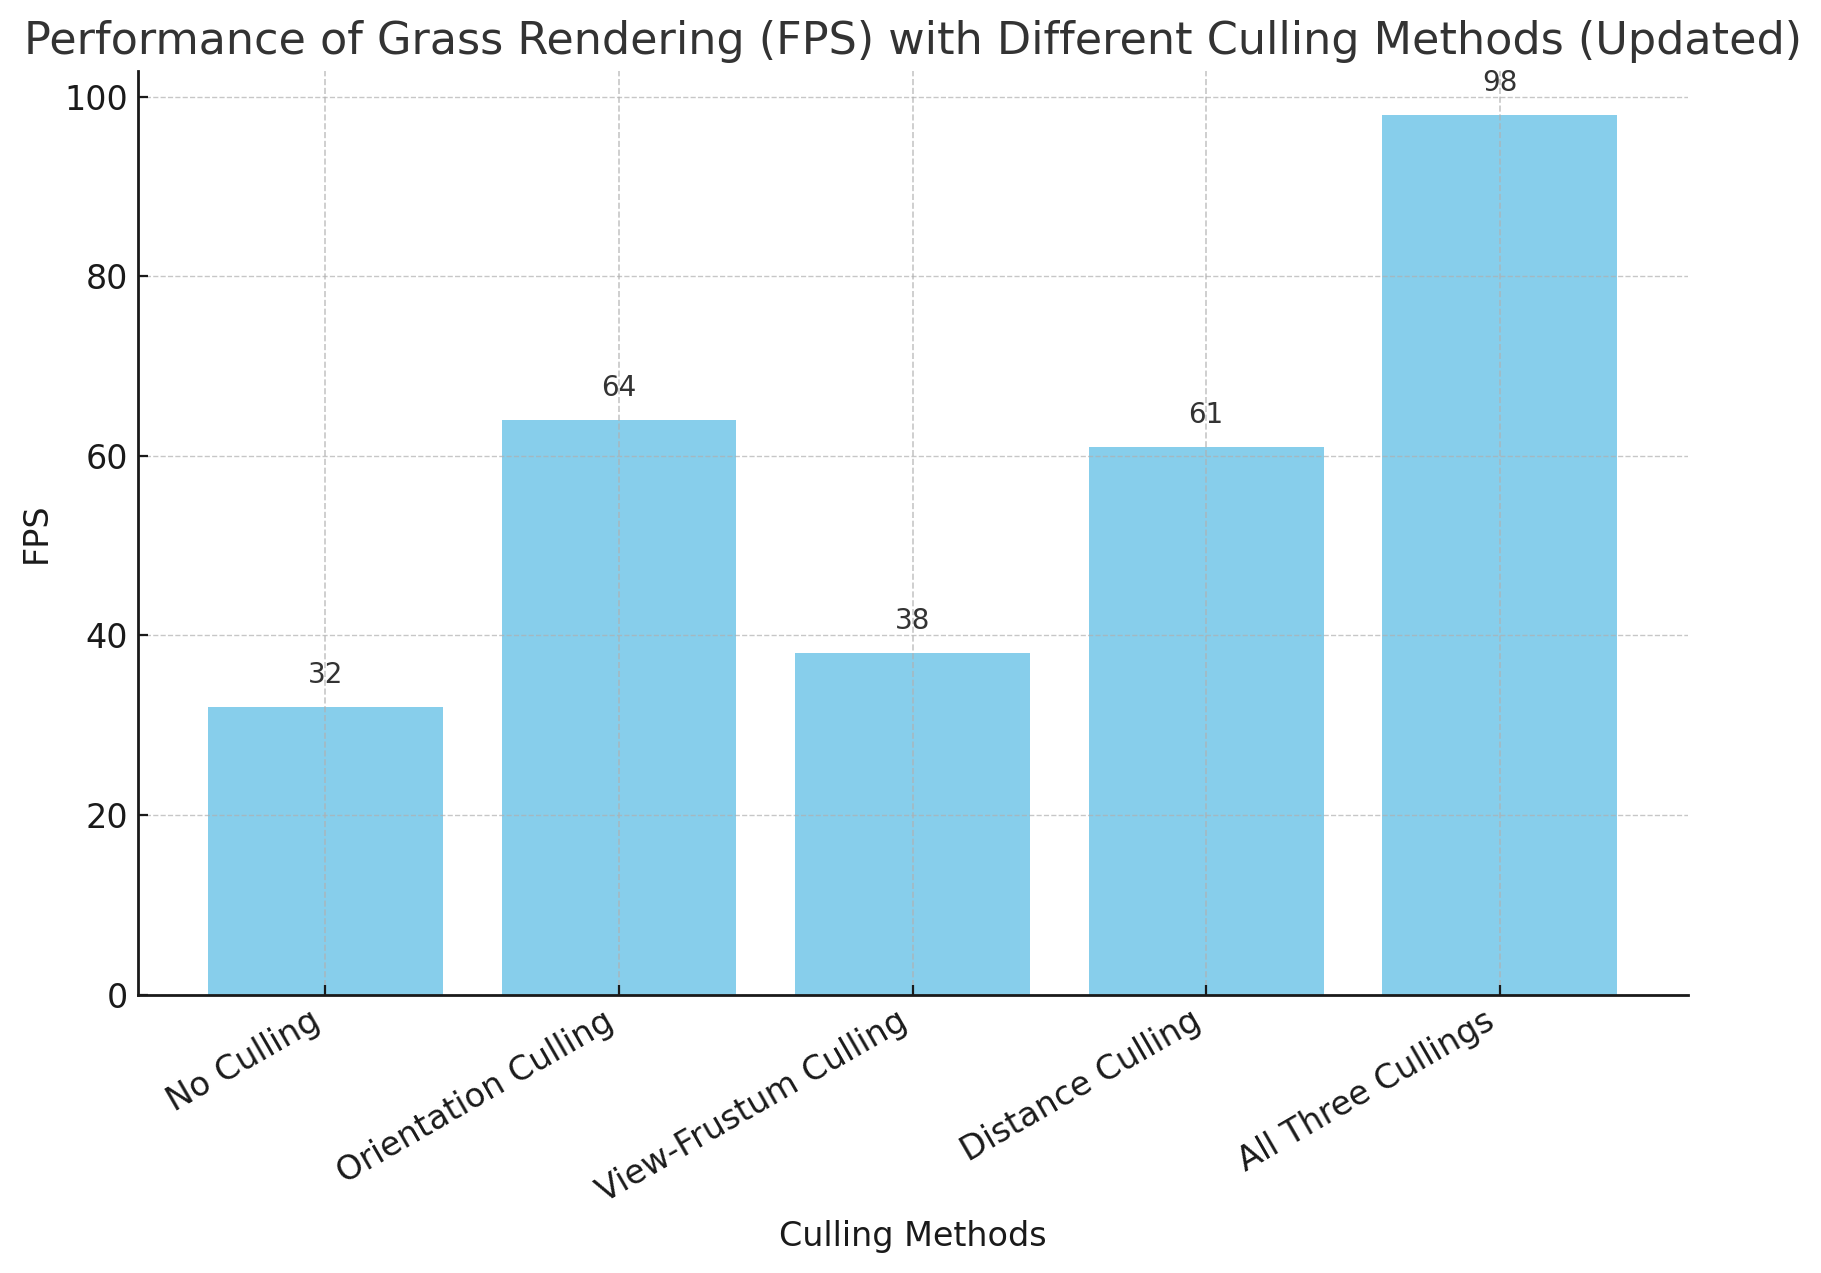
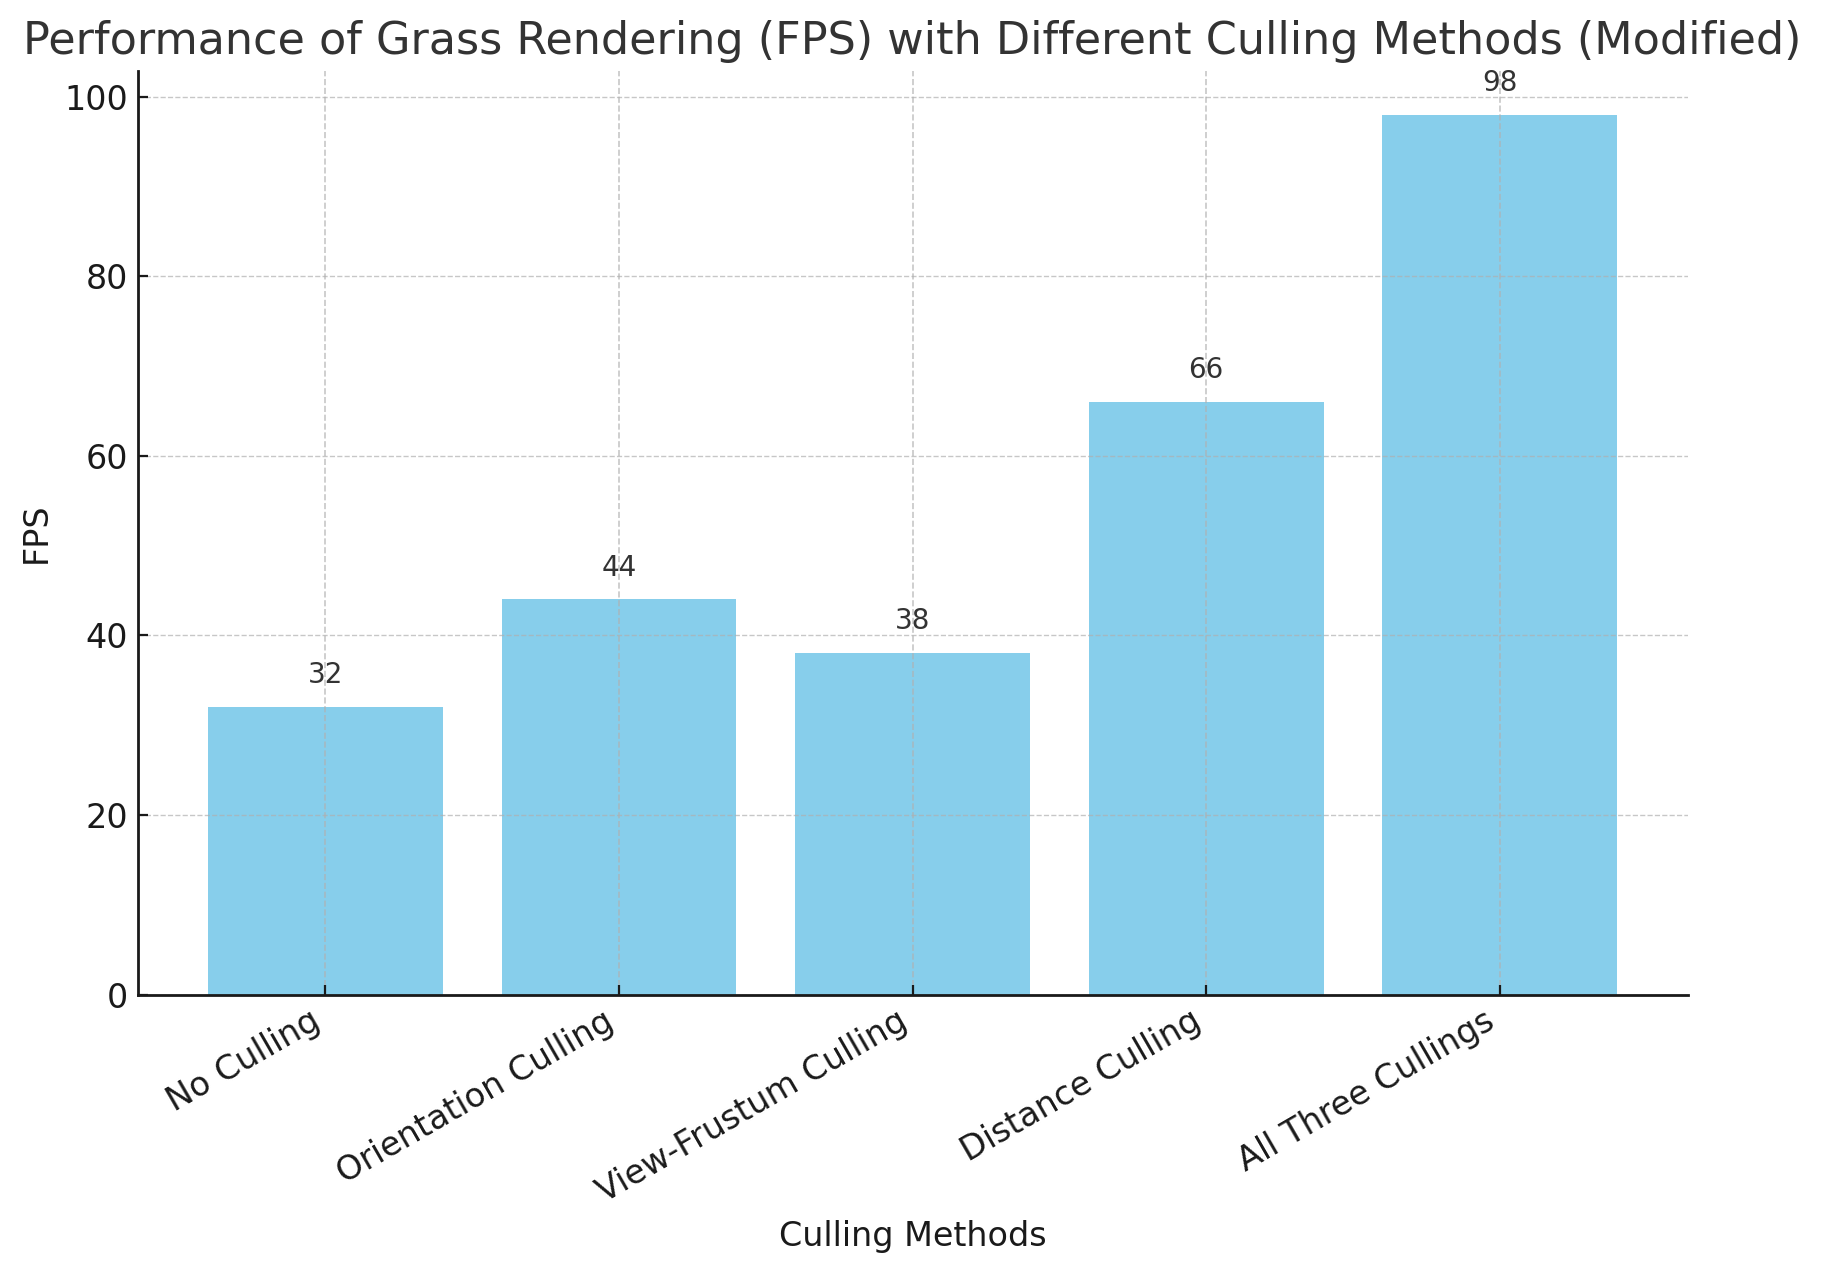
fix orientation culling

diff --git a/src/Blades.cpp b/src/Blades.cpp
@@ -12,7 +12,6 @@ Blades::Blades(Device* device, VkCommandPool commandPool, float planeDim) : Mode
 
     for (int i = 0; i < NUM_BLADES; i++) {
         Blade currentBlade = Blade();
-
         glm::vec3 bladeUp(0.0f, 1.0f, 0.0f);
 
         // Generate positions and direction (v0)

diff --git a/README.md b/README.md
@@ -32,7 +32,7 @@ The following GIF shows the rendering effect with applied forces but without any
 ![no_culling.gif](img%2Fno_culling.gif)
 
 #### (iii) Culling Tests
-The first GIF below shows the effect of orientation culling, while the second GIF shows the effect of distance culling. Since view-frustum culling removes grass blades outside the field of view, it’s not possible to display it below. For orientation culling, I set the culling threshold to 0.5 to make the effect more noticeable; however, in real scenarios, a threshold of 0.9 works better, avoiding unnatural over-culling.
+The first GIF below shows the effect of orientation culling, and the second GIF shows the effect of distance culling. Since view-frustum culling removes grass blades outside the field of view, it’s not possible to display it here. For orientation culling, I initially tried using the third column of the view matrix as the camera direction, but the result was incorrect because the view matrix is in the camera coordinate system, not the world coordinate system. After numerous attempts, I found that using the direction from the camera origin to v0 as the camera direction produced the correct effect.
 ![no_culling.gif](img%2Fori_culling.gif)
 ![no_culling.gif](img%2Fdist_culling.gif)
 
@@ -40,7 +40,7 @@ The first GIF below shows the effect of orientation culling, while the second GI
 #### (iv) Performance Analysis
 Performance analysis for grass rendering is challenging because culling largely depends on the current camera position. To observe the effects of certain culling techniques, the camera needs to be moved, but it’s difficult to ensure that each movement angle and distance is the same. Therefore, the test on how the number of grass blades impacts performance is conducted without any culling applied, as shown in the image below.
 ![blade_number.png](img%2Fblade_number.png)
-As we can see, starting from 2^13, the GPU has already reached thread saturation, and the growth rate becomes approximately linear with the increase in the number of grass blades. When the number of grass blades is very low, the FPS estimate isn’t very accurate, but even with just one blade, the maximum FPS is around 8000. This indicates that when the GPU is not yet saturated, it can render sparse grass extremely quickly.
+As we can see, starting from 2^13, the GPU has already reached thread saturation, and the growth rate becomes approximately linear with the increase in the number of grass blades. When the number of grass blades is very low, the FPS estimate isn’t very accurate, but even with just one blade, the maximum FPS is around 10000. This indicates that when the GPU is not yet saturated, it can render sparse grass extremely quickly.
 
-The following graph reflects the performance improvement from culling at 2^20 grass blades. The combined effect of the three culling techniques essentially results in a 1+1+1=3 effect, which aligns well with the linear relationship observed in the previous graph. Since a tolerance was set for the view-frustum, view-frustum culling only takes effect when the camera is very close to the grass, but this effect is quite significant.
+The following image reflects the performance improvement from culling. Interestingly, although it generally corresponds to the linear relationship shown in the previous graph, the combined effect of the three culling techniques yields a result where 1+1+1 > 3. This may be due to the compounded reduction in workload when multiple culling methods work together. Since a tolerance was set for the view-frustum, view-frustum culling only takes effect when the camera is very close to the grass, but this effect is quite significant.
 ![culling.png](img%2Fculling.png)
